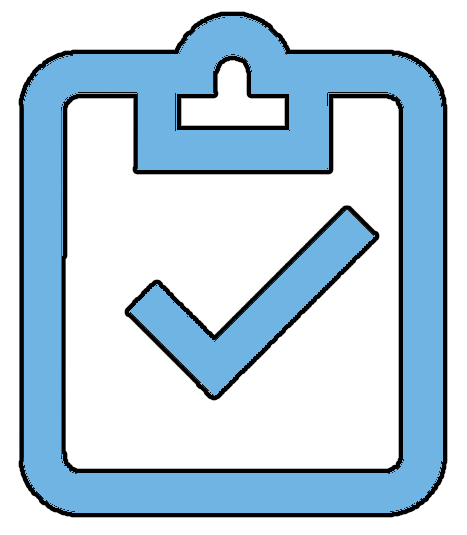
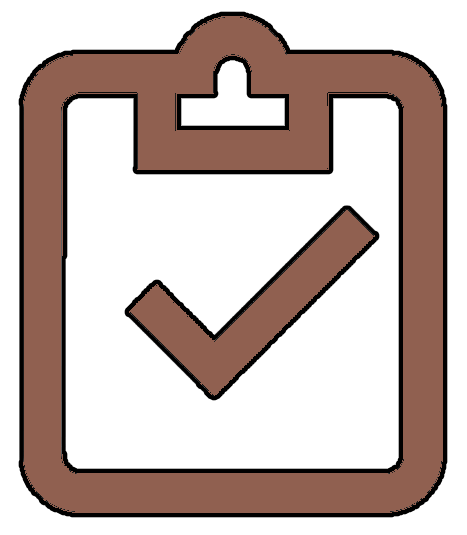
Design changes

diff --git a/styles/output.css b/styles/output.css
@@ -7,8 +7,6 @@
       "Segoe UI Emoji", "Segoe UI Symbol", "Noto Color Emoji";
     --font-mono: ui-monospace, SFMono-Regular, Menlo, Monaco, Consolas, "Liberation Mono",
       "Courier New", monospace;
-    --color-amber-50: oklch(98.7% 0.022 95.277);
-    --color-blue-300: oklch(80.9% 0.105 251.813);
     --color-blue-400: oklch(70.7% 0.165 254.624);
     --color-gray-700: oklch(37.3% 0.034 259.733);
     --spacing: 0.25rem;
@@ -346,16 +344,17 @@
   }
 }
 .button {
-  border-color: #50AAE7;
+  border-color: #906050;
   display: flex;
   height: calc(var(--spacing) * 15);
   width: calc(var(--spacing) * 90);
+  transform: var(--tw-rotate-x,) var(--tw-rotate-y,) var(--tw-rotate-z,) var(--tw-skew-x,) var(--tw-skew-y,);
   cursor: pointer;
   align-items: center;
   justify-content: center;
   border-radius: calc(infinity * 1px);
   border-style: var(--tw-border-style);
-  border-width: 2px;
+  border-width: 3px;
   font-size: var(--text-xl);
   line-height: var(--tw-leading, var(--text-xl--line-height));
   --tw-font-weight: var(--font-weight-medium);
@@ -369,55 +368,45 @@
   transition-timing-function: var(--ease-in-out);
   &:hover {
     @media (hover: hover) {
-      border-color: var(--color-amber-50);
+      --tw-scale-x: 105%;
+      --tw-scale-y: 105%;
+      --tw-scale-z: 105%;
+      scale: var(--tw-scale-x) var(--tw-scale-y);
     }
   }
-  &:hover {
-    @media (hover: hover) {
-      background-color: var(--color-blue-300);
-    }
-  }
-}
-:root {
-  color-scheme: dark;
 }
 body {
-  --bg-color: #BBE1F4;
-  --text-color: #0b47a0;
-  --button-bg: #f0f0f0;
-  background-color: var(--bg-color);
-  color: var(--text-color);
-  transition: background-color 0.9s, color 0.5s ease;
-  background-image: url('../assets/images/layered-waves-haikei.png');
-  background-position: center;
-  background-repeat: no-repeat;
-  background-size: cover;
   position: relative;
-  z-index: 0;
+  color: var(--text-color);
+  transition: color 0.5s ease;
 }
-body::before {
-  content: "";
-  position: absolute;
+body::before, body::after {
+  content: '';
+  position: fixed;
   top: 0;
   left: 0;
   width: 100%;
   height: 100%;
-  pointer-events: none;
-  background-image: url('../assets/images/layered-waves-haikei-dark.png');
-  background-position: center;
-  background-repeat: no-repeat;
-  background-size: cover;
-  opacity: 0;
-  transition: opacity 0.9s ease;
   z-index: -1;
+  transition: opacity 0.9s ease;
 }
-html.dark-mode body {
-  --bg-color: #0f3241;
-  --text-color: #fffcfc;
-  --button-bg: #333333;
+body::before {
+  background-color: #E8DCC4;
+  opacity: 1;
+}
+body::after {
+  background-color: #3E2723;
+  opacity: 0;
 }
 html.dark-mode body::before {
+  opacity: 0;
+}
+html.dark-mode body::after {
   opacity: 1;
+}
+html.dark-mode body {
+  --text-color: #fffcfc;
+  --button-bg: #333333;
 }
 @property --tw-space-y-reverse {
   syntax: "*";
@@ -493,6 +482,26 @@ html.dark-mode body::before {
   inherits: false;
   initial-value: 0 0 #0000;
 }
+@property --tw-rotate-x {
+  syntax: "*";
+  inherits: false;
+}
+@property --tw-rotate-y {
+  syntax: "*";
+  inherits: false;
+}
+@property --tw-rotate-z {
+  syntax: "*";
+  inherits: false;
+}
+@property --tw-skew-x {
+  syntax: "*";
+  inherits: false;
+}
+@property --tw-skew-y {
+  syntax: "*";
+  inherits: false;
+}
 @property --tw-border-style {
   syntax: "*";
   inherits: false;
@@ -505,6 +514,21 @@ html.dark-mode body::before {
 @property --tw-ease {
   syntax: "*";
   inherits: false;
+}
+@property --tw-scale-x {
+  syntax: "*";
+  inherits: false;
+  initial-value: 1;
+}
+@property --tw-scale-y {
+  syntax: "*";
+  inherits: false;
+  initial-value: 1;
+}
+@property --tw-scale-z {
+  syntax: "*";
+  inherits: false;
+  initial-value: 1;
 }
 @layer properties {
   @supports ((-webkit-hyphens: none) and (not (margin-trim: inline))) or ((-moz-orient: inline) and (not (color:rgb(from red r g b)))) {
@@ -525,9 +549,17 @@ html.dark-mode body::before {
       --tw-ring-offset-width: 0px;
       --tw-ring-offset-color: #fff;
       --tw-ring-offset-shadow: 0 0 #0000;
+      --tw-rotate-x: initial;
+      --tw-rotate-y: initial;
+      --tw-rotate-z: initial;
+      --tw-skew-x: initial;
+      --tw-skew-y: initial;
       --tw-border-style: solid;
       --tw-duration: initial;
       --tw-ease: initial;
+      --tw-scale-x: 1;
+      --tw-scale-y: 1;
+      --tw-scale-z: 1;
     }
   }
 }

diff --git a/styles/input.css b/styles/input.css
@@ -1,70 +1,57 @@
 @import "tailwindcss";
 
 .button { /* button customization */
-    border-color:#50AAE7;
+    border-color:#906050;
 
     /* Tailwind */
     @apply
     w-90 h-15
-    border-2
+    border-3
     rounded-full
     flex items-center justify-center
     text-xl font-medium
-    hover:bg-blue-300
-    hover:border-amber-50
+    transform hover:scale-105
     transition duration-200 ease-in-out
     cursor-pointer  
 }
 
-:root {
-  color-scheme: dark; /* if dark is your preference */
-}
-
 body {
-    --bg-color: #BBE1F4;
-    --text-color: #0b47a0;
-    --button-bg: #f0f0f0;
-
-    background-color: var(--bg-color);
-    color: var(--text-color);
-    transition: background-color 0.9s, color 0.5s ease; /* transition */
-
-    /* base bg (light mode) */
-    background-image: url('../assets/images/layered-waves-haikei.png');
-    background-position: center;
-    background-repeat: no-repeat;
-    background-size: cover;
-
     position: relative;
-    z-index: 0;
+    color: var(--text-color);
+    transition: color 0.5s ease;
 }
 
-/* pseudo element for dark mode image, top layer */
-body::before {
-    content: "";
-    position: absolute;
+body::before,
+body::after {
+    content: '';
+    position: fixed;
     top: 0;
     left: 0;
     width: 100%;
     height: 100%;
-    pointer-events: none; /* allow clicks to pass through */
-
-    background-image: url('../assets/images/layered-waves-haikei-dark.png');
-    background-position: center;
-    background-repeat: no-repeat;
-    background-size: cover;
-    opacity: 0;
-    transition: opacity 0.9s ease; /* smooth transition */
     z-index: -1;
+    transition: opacity 0.9s ease;
+}
+/* LIGHT MODE */
+body::before {
+    background-color: #E8DCC4;
+    opacity: 1;
 }
 
-/* Dark mode styles */
+body::after {
+    background-color: #3E2723;
+    opacity: 0;
+}
+/* DARK MODE */
+html.dark-mode body::before {
+    opacity: 0;
+}
+
+html.dark-mode body::after {
+    opacity: 1;
+}
+
 html.dark-mode body {
-    --bg-color: #0f3241;
     --text-color: #fffcfc;
     --button-bg: #333333;
-}
-
-html.dark-mode body::before {
-    opacity: 1; /* show dark mode background */
 }

diff --git a/index.html b/index.html
@@ -17,7 +17,7 @@
   <script src="./scripts/main.js" defer></script>
 </head>
 
-<body class="min-h-screen"> <!-- Background image applied here -->
+<body class="min-h-screen box"> <!-- Background image applied here -->
   <header class="flex items-center justify-center pt-20 pb-17">
       <button id="theme-toggle" class="flex absolute top-6 right-6 ">Dark Mode</button>
       <img src="./assets/images/strums-logo.png" alt="Strums" class="h-auto w-35"> <!-- Strums Logo -->

diff --git a/pages/chord-library.html b/pages/chord-library.html
@@ -49,7 +49,7 @@
         <img src="../assets/images/chords/E_minor.png" alt="E Minor Chord" class="mb-4 w-20 h-auto">
         <h2 class="text-xl font-semibold mb-2">E Minor</h2>
         <p class="text-center">022000</p>
-      </div> <!-- Add more chord cards as needed -->
+      </div> <!-- add chords here-->
     </div> 
   </div> 
 
